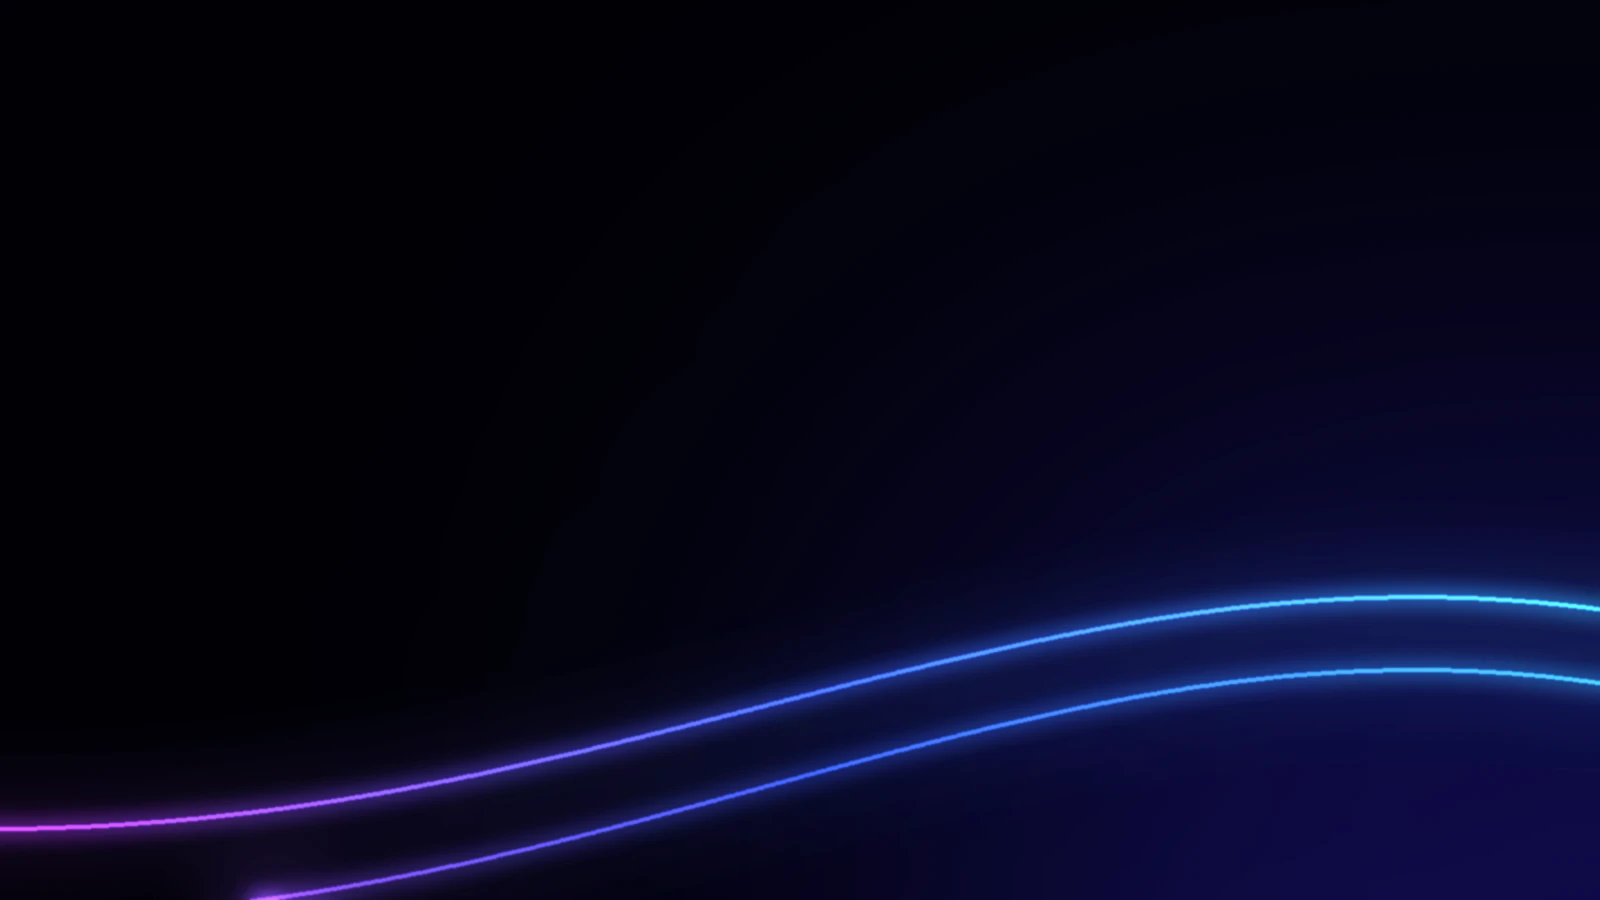
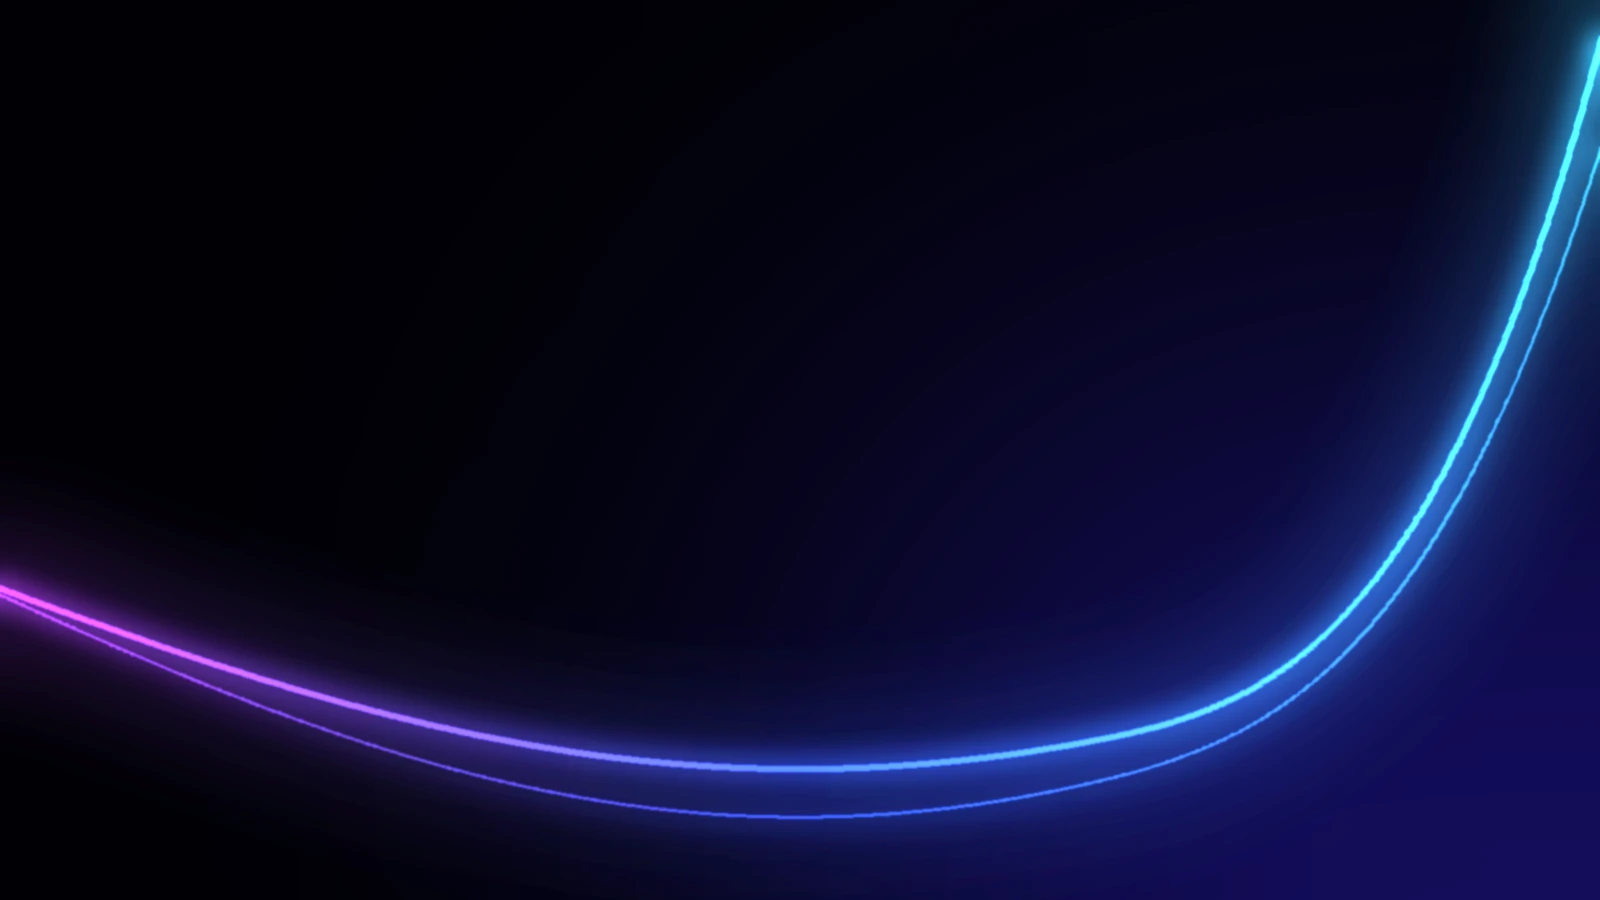
chore: release v5.3.2
- Latest Releases and Recently Added swapped: the release-date auto catalog is Latest Releases (on by default), upload-order catalogs are Recently Added
- Discover collection: Trending Now, Latest Releases, Popular Hits, Recently Added
- Recently Added artwork redone to match the other Discover covers (open gradient icon, tighter logo, brighter glow)
- Startup auto catalog rename removed; run auto-sync from the Catalogs page instead

Changed region(s): [[0.0, 0.0, 1.0, 1.0]]

diff --git a/Backend/__init__.py b/Backend/__init__.py
@@ -14,4 +14,4 @@ USE_DEFAULT_ID: str = None
 MANUAL_SESSION: dict = None
 db = Database()
 
-__version__ = "5.3.1"
+__version__ = "5.3.2"
